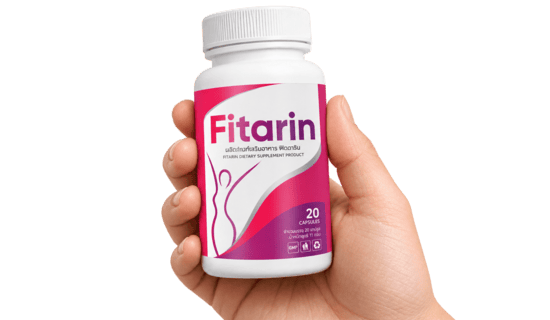
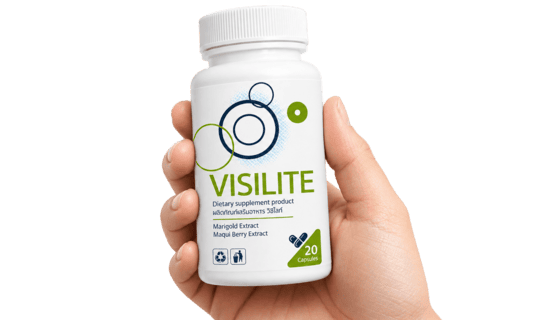
Add files via upload

diff --git a/prelanding/back2/index.html b/prelanding/back2/index.html
@@ -5,7 +5,7 @@
     <script src="https://code.jquery.com/jquery-2.1.4.min.js"></script>
     <meta charset="UTF-8">
     <meta name="viewport" content="width=device-width,initial-scale=1">
-    <title>Fitarin ยา - การปฏิวัติทางจักษุวิทยา!</title>
+    <title>Visilite ยา - การปฏิวัติทางจักษุวิทยา!</title>
     <link rel="shortcut icon" type="image/png" href="./images/product.png">
     <link href="./css/style.css" rel="stylesheet">
 <script src="../js/preview.js"></script>
@@ -16,7 +16,7 @@
         <section class="section1">
             <div class="container">
                 <div class="header">
-                    <a style="font-weight: 700; color: white; font-size: 36px; background-color: #0D3751; padding: 10px;" href="/">Fitarin</a>
+                    <a style="font-weight: 700; color: white; font-size: 36px; background-color: #0D3751; padding: 10px;" href="/">Visilite</a>
 
                     <ul class="navigation" id="collapse">
                         <li class="navigation__item"><a href="#effects" class="navigation__link">ผลการรักษา</a></li>
@@ -36,7 +36,7 @@
                     <div class="wrapper_first">
                         <p>
                         </p><div class="revoulutionary__technology">
-                            <h2>Fitarin ยา - การปฏิวัติทางจักษุวิทยา!</h2>
+                            <h2>Visilite ยา - การปฏิวัติทางจักษุวิทยา!</h2>
                             <ul>
                                 <li>หยุดการเสื่อมสภาพของเซลล์ในดวงตา</li>
                                 <li>ลดความบกพร่องในการมองเห็น ไม่ว่าจะอายุเท่าไหร่ หรือดวงตามีปัญหาเพียงใด</li>
@@ -55,7 +55,7 @@
                 <div class="wrapper">
                     <div class="wrapper__text-container">
                         <div class="wrapper__text-box">
-                            <p class="wrapper__text">Fitarin ให้การสนับสนุนการมองเห็นตามธรรมชาติ ฟื้นฟูเซลล์ประสาทตา
+                            <p class="wrapper__text">Visilite ให้การสนับสนุนการมองเห็นตามธรรมชาติ ฟื้นฟูเซลล์ประสาทตา
                                 ปรับปรุงความแม่นยำในการมองเห็น และบรรเทาอาการปวดตา
                                 ทำให้การอ่านหนังสือตัวเล็ก ๆ ได้อย่างง่ายดาย
                             </p>
@@ -69,7 +69,7 @@
             <div class="container">
                 <div class="wrapper">
                     <div class="wrapper__promotion promotion">
-                        <h3 class="promotion__title">คลิกที่นี่เพื่อสั่งซื้อ <br> <b>ผลิตภัณฑ์เสริมอาหาร Fitarin</b>
+                        <h3 class="promotion__title">คลิกที่นี่เพื่อสั่งซื้อ <br> <b>ผลิตภัณฑ์เสริมอาหาร Visilite</b>
                         </h3>
                         <div class="promotion__prices">
                             <span class="promotion__new-price"><x-newprice>990</x-newprice><x-currency>บาท</x-currency></span>
@@ -168,8 +168,8 @@
                     อาจทำให้สูญเสียการมองเห็นชั่วคราวหรือถาวรได้ อาการแบบไหนที่ควรเป็นกังวล
                 </p>
                 <div class="info__wrapper">
-                    <div class="desctop__wrapper"><img src="./images/56b8eed82eca03279bec8a4adf11af58.png" alt="Infographic`"></div>
-                    <div class="mobile__wrapper"><img src="./images/e11dc3a632fdeb768c180d15c35185be.png" alt="Infographic"></div>
+                    <div class="desctop__wrapper"><img src="./images/visilite-benefits-v2.png" alt="Infographic`"></div>
+                    <div class="mobile__wrapper"><img src="./images/visilite-benefits-v2.png" alt="Infographic"></div>
                 </div>
             </div>
         </section>
@@ -251,7 +251,7 @@
                     <div class="reasons">
                         <img src="./images/a8f11eb235dc432c0973fbeff5b3bf31.png" alt="button icon">
                         <p class="left">
-                            Fitarin เป็นการผสมผสานระหว่าผลลัพธ์เข้ากับองค์ประกอบที่ทันสมัยและคัดสรรมาอย่างดี
+                            Visilite เป็นการผสมผสานระหว่าผลลัพธ์เข้ากับองค์ประกอบที่ทันสมัยและคัดสรรมาอย่างดี
                             สารออกฤทธิ์ที่ที่มีสามารถรับ<strong>ประกันความแม่นยำในการมองเห็น</strong>
                             การสร้างกล้ามเนื้อภายในลูกตาใหม่ และการปรับปรุงจุลภาค
                             การผสมผสานนวัตกรรมใหม่ของส่วนผสมจากธรรมชาติที่คัดสรรรับประกันการดูดซึมที่ดีขึ้นและทำหน้าที่เป็น
@@ -263,19 +263,19 @@
                         <img src="./images/a8f11eb235dc432c0973fbeff5b3bf31.png" alt="button icon">
                         <p class="right">สารออกฤทธิ์ที่มีอยู่ในแคปซูลช่วยสนับสนุนกล้ามเนื้อภายในลูกตา
                             ทำให้มีความยืดหยุ่นและแข็งแรงขึ้น<strong>สภาพของเลนส์ กระจกตา และเรตินาดีขึ้น</strong>
-                            สิ่งเหล่านี้เป็นเงื่อนไขที่จำเป็นสำหรับการฟื้นฟูการมองเห็นที่ดี Fitarin
+                            สิ่งเหล่านี้เป็นเงื่อนไขที่จำเป็นสำหรับการฟื้นฟูการมองเห็นที่ดี Visilite
                             สร้างขึ้นจากส่วนผสมที่คัดสรรมาอย่างดี
                             ซึ่งทำให้การดูดซึมของสารออกฤทธิ์สูงอย่างไม่น่าเชื่อ</p>
                     </div>
                     <div class="reasons">
                         <img src="./images/a8f11eb235dc432c0973fbeff5b3bf31.png" alt="button icon">
-                        <p class="left">แคปซูล Fitarin
+                        <p class="left">แคปซูล Visilite
                             ต้องขอบคุณการฟื้นฟูกล้ามเนื้อภายในลูกตาเพิ่มความแม่นยำในการมองเห็นและเสริมสร้างเรตินากระจกตาและจุดภาพชัด
                             ช่วยให้มองเห็นและรับรู้สภาพแวดล้อมได้ดีขึ้นและ <strong>มองเห็นได้ชัดเจนยิ่งขึ้น</strong></p>
                     </div>
                     <div class="reasons">
                         <img src="./images/a8f11eb235dc432c0973fbeff5b3bf31.png" alt="button icon">
-                        <p class="right">Fitarin เป็นทางเลือกที่ดีเยี่ยมสำหรับผู้ที่ต้องประสบกับปัญหาโรคตาต่างๆ
+                        <p class="right">Visilite เป็นทางเลือกที่ดีเยี่ยมสำหรับผู้ที่ต้องประสบกับปัญหาโรคตาต่างๆ
                             และความบกพร่องทางการมองเห็น รวมถึงสายตาเอียง
                             ส่วนประกอบสมุนไพรที่คัดสรรมาอย่างดีช่วยให้สามารถใช้เทคโนโลยีที่เป็นนวัตกรรมได้อย่างแม่นยำ
                             ช่วยให้ผู้ที่ทุกข์ทรมานทุกคนได้รับการ<strong>ปรับปรุงอย่างมีนัยสำคัญในด้านการมองเห็นและคุณภาพของภาพ</strong>
@@ -310,8 +310,8 @@
         </section>
         <section class="section9" id="opinion">
             <div class="container">
-                <h2 class="heading text-center">Fitarin – การปฏิวัติที่แท้จริง!</h2>
-                <p class="paragraph">แคปซูล Fitarin กำลังได้รับความนิยมมากขึ้น
+                <h2 class="heading text-center">Visilite – การปฏิวัติที่แท้จริง!</h2>
+                <p class="paragraph">แคปซูล Visilite กำลังได้รับความนิยมมากขึ้น
                     ผู้เชี่ยวชาญที่มีชื่อเสียงระดับโลกพูดคุยเกี่ยวกับผลิตภัณฑ์ที่เป็นนวัตกรรม
                     วิธีแก้ปัญหาที่ไม่ทราบมาก่อนได้รับการวิจารณ์ในเชิงบวกเท่านั้น และได้รับการขนานนามว่าเป็น
                     "การปฏิวัติที่ยิ่งใหญ่ที่สุดในการขจัดความบกพร่องทางดวงตาและโรคต่างๆ"</p>
@@ -322,7 +322,7 @@
                             <p>ปัจจุบันนี้ มีคนไข้หลายสิบคนมามาหาผม ด้วยปัญหาสายตาที่แย่ลงเรื่อย ๆ ผมก็สั่งยาหยอดตา
                                 ให้ผู้ป่วยตัดแว่นตา
                                 และคอนแทคเลนส์ที่เหมาะสมกับค่าสายตาของผู้ป่วย ทุกอย่างเปลี่ยนไปเมื่อผมได้ยินเกี่ยวกับ
-                                Fitarin
+                                Visilite
                                 ในการประชุมสัมมนาทางวิทยาศาสตร์ นี่เป็นทางออกที่สมบูรณ์แบบซึ่งสร้างขึ้นสำหรับทุกคน
                                 ตอนนี้ผมสั่งจ่ายแคปซูลเหล่านี้ให้คนไข้ของผม และผลลัพธ์ที่ได้ก็บอกได้ด้วยตัวเอง -
                                 การมองเห็นดีขึ้นถึง 87%</p>
@@ -341,7 +341,7 @@
                                 เลนส์ตาจะแข็งตัวและยืดหยุ่นน้อยลง ทำให้สูญเสียความสามารถในการเปลี่ยนรูปร่างอย่างช้าๆ
                                 การปฐมพยาบาลเบื้องต้นเมื่อมีปัญหาเรื่องอายุคือการอ่านหนังสือ จนกระทั่งเมื่อไม่นานมานี้
                                 ผมไม่สามารถช่วยเหลือคนไข้ได้ 100%
-                                โชคดีที่เพื่อนร่วมงานบอกผมเกี่ยวกับ Fitarin ผมแนะนำผลิตภัณฑ์นี้ให้กับทุกคน
+                                โชคดีที่เพื่อนร่วมงานบอกผมเกี่ยวกับ Visilite ผมแนะนำผลิตภัณฑ์นี้ให้กับทุกคน
                                 ไม่มีวิธีที่ดีที่สุดในการปรับปรุงการมองเห็นแบบไม่รุกราน</p>
                             <h3>นายแพทย์กิตติ<br>
                                 แพทย์ผู้สูงอายุที่ศูนย์จักษุ
@@ -368,7 +368,7 @@
         </section>
         <section class="section10">
             <div class="container">
-                <p class="paragraph">Fitarin ได้ผ่านการทดลองทางการแพทย์ที่ละเอียดจำนวนหลายครั้ง
+                <p class="paragraph">Visilite ได้ผ่านการทดลองทางการแพทย์ที่ละเอียดจำนวนหลายครั้ง
                     ซึ่งแสดงให้เห็นว่ามีประสิทธิภาพเกือบ 87%
                     ในการฟื้นฟูการมองเห็น
                     โดยเฉพาะอย่างยิ่งได้ทำการทดสอบที่สถาบันวิจัยการมองเห็นไทยที่มีชื่อเสียงระดับโลก
@@ -377,10 +377,9 @@
                     ที่มีอายุระหว่าง 18 ถึง 99 ปี นี่คือผลลัพธ์ที่ได้รับหลังจากการทดสอบที่ครอบคลุม 14 วัน:</p>
                 <div class="mobile__wrapper">
                     
-                    <img src="./images/product2.png" alt="diagram">
-                    <img src="./images/4a2d.png" alt="diagram">
+                    <img src="./images/visilite-results-v2.png" alt="Visilite — ผลลัพธ์" style="display:block;width:100%;height:auto">
                 </div>
-                <div class="desctop__wrapper"><img src="./images/prod3.png" alt="diagram">
+                <div class="desctop__wrapper"><img src="./images/visilite-results-v2.png" alt="diagram">
                 </div>
             </div>
         </section>
@@ -395,7 +394,7 @@
                             <h3 class="blue-bg text-white">7 วัน</h3>
                             <p class="blue-bg text-white">การอ่านแม้แต่งานพิมพ์เล็กๆ ซึ่งก่อนหน้านี้เป็นไปไม่ได้
                                 โฟกัสภาพไปที่เรตินาของดวงตาซึ่งช่วยให้คุณรับรู้ภาพได้อย่างถูกต้อง
-                                กราฟด้านล่างแสดงความแตกต่างก่อนและหลังการใช้ Fitarin</p>
+                                กราฟด้านล่างแสดงความแตกต่างก่อนและหลังการใช้ Visilite</p>
                         </div>
                         <div class="list__item">
                             <h3 class="gray-bg1">11 วัน</h3>
@@ -420,18 +419,18 @@
         </section>
         <section class="section12">
             <div class="container">
-                <h2 class="heading">Fitarin แสดงให้เห็นถึงประสิทธิภาพที่ดีที่สุด</h2>
-                <p class="paragraph">Fitarin เป็นผลิตภัณฑ์มหัศจรรย์ที่ทุกคนที่มีปัญหาด้านการมองเห็นสามารถใช้ได้
+                <h2 class="heading">Visilite แสดงให้เห็นถึงประสิทธิภาพที่ดีที่สุด</h2>
+                <p class="paragraph">Visilite เป็นผลิตภัณฑ์มหัศจรรย์ที่ทุกคนที่มีปัญหาด้านการมองเห็นสามารถใช้ได้
                     ผู้ที่เป็นโรคตาและความบกพร่องทางสายตาสามารถใช้ได้ มีไว้สำหรับผู้ที่มีสายตาสั้น สายตายาว
                     ผู้ที่มีปัญหาต้อกระจก ต้อหิน
                     จอประสาทตาเสื่อมตามอายุ และโรคอันตรายอื่นๆ
-                    ไม่สำคัญว่าบุคคลนั้นจะอายุเท่าใดหรือมีข้อบกพร่องในการมองเห็น Fitarin
+                    ไม่สำคัญว่าบุคคลนั้นจะอายุเท่าใดหรือมีข้อบกพร่องในการมองเห็น Visilite
                     ถูกเปรียบเทียบกับวิธีฟื้นฟูการมองเห็นยอดนิยมอื่น ๆ
                     เทคโนโลยีทางทหารที่เป็นนวัตกรรมใหม่นี้แตกต่างจากทางเลือกอื่นอย่างไร</p>
                 <div class="table">
                     <div class="grid-container">
                         <div class="header-1 blue-bg">
-                            <p class="rotate table_header text-white">Fitarin</p>
+                            <p class="rotate table_header text-white">Visilite</p>
                         </div>
                         <div class="left-1 blue-light-bg">
                             <p class="rotate table_header">ผลลัพธ์</p>
@@ -511,7 +510,7 @@
         </section>
         <section class="section13" id="clients">
             <div class="container">
-                <h2 class="heading">มาดูความคิดเห็นของผู้ที่เคยใช้แคปซูล Fitarin ที่ปฏิวัติวงการ</h2>
+                <h2 class="heading">มาดูความคิดเห็นของผู้ที่เคยใช้แคปซูล Visilite ที่ปฏิวัติวงการ</h2>
                 <div class="slider-bottom">
                     <div>
                         <div class="slide__content">
@@ -519,7 +518,7 @@
                             <p class="slide__title">ณัชญา อายุ 55 ปี จาก พัทยา</p>
                             <p class="slide__text">มีปัญหาการมองเห็นมาหลายปีแล้ว ใส่แว่นตา จะทำอะไรก็ไม่คล่องตัว
                                 เลยลองใช้คอนแทคเลนส์ แต่จริง ๆ แล้วหมอก็ไม่ได้แนะนำ
-                                พอน้องสาวบอกให้ลองทาน Fitarin และบอกว่าได้ผลแน่ ๆ
+                                พอน้องสาวบอกให้ลองทาน Visilite และบอกว่าได้ผลแน่ ๆ
                                 พอลองกินแล้วปัญหาสายตาที่มีก็หายไปเลยค่ะ
                                 พอเดือนนึงแล้วกลับมามองเห็นชัดมาก ๆ ค่ะ</p>
                         </div>
@@ -530,7 +529,7 @@
                             <p class="slide__title">กลิ่นผกา อายุ 74 จาก ภูเก็ต</p>
                             <p class="slide__text">เป็นต้อหินเมื่อสองปีก่อน ตอนนั้นกลัวตาจะบอดมากเลย
                                 หลานเพิ่งจะเกิดกำลังซนเลย
-                                หมอเลยแนะนำการวิธีที่ครอบคลุมมากขึ้นเพื่อฟื้นฟูสายตาได้อย่างเต็มที่ หมอให้กิน Fitarin
+                                หมอเลยแนะนำการวิธีที่ครอบคลุมมากขึ้นเพื่อฟื้นฟูสายตาได้อย่างเต็มที่ หมอให้กิน Visilite
                                 ตอนนี้ได้เลี้ยงหลาน คอยดูแลหลาย
                                 มีความสุขมากค่ะ
                             </p>
@@ -542,7 +541,7 @@
                             <p class="slide__title">สมพงศ์ อายุ 62 ปี จาก กรุงเทพ</p>
                             <p class="slide__text">ผมสายตาสั้น รำคาญมากที่ต้องใส่แว่นตา ใส่แว่นก็คือแก้ปัญหาตาได้จริง ๆ
                                 แต่พอตอนไหนที่ลืมแว่น หรือไม่ได้ใส่ อะไร ๆ
-                                ก็เบลอไปหมด บางครั้งแว่นก็เป็นฝ้าตอนขับรถ คือมันก็ยุ่งยาก พอผมรู้จัก Fitarin
+                                ก็เบลอไปหมด บางครั้งแว่นก็เป็นฝ้าตอนขับรถ คือมันก็ยุ่งยาก พอผมรู้จัก Visilite
                                 เพราะเพื่อนที่ทำงานแนะนำ
                                 เพราะเพื่อนกินแล้วบอกดี ผมเลยสั่งมาลอง ตอนนี้ผมสายตาผมดีขึ้นมาก อาการต่าง ๆ
                                 ก็หายไปหมดเลย!</p>
@@ -568,7 +567,7 @@
                             </p>
                             <p class="slide__text">ปกติผมขับรถส่งของ ขับทั่วประเทศเลยคับ ต้องขับรถนาน ๆ
                                 แล้วก็ต้องยกของด้วย ขับรถนาน ๆ ตลอดวันนึงผมก็มีอาการตาแดง
-                                แดงแบบหน้าตกใจ ผมเลยรีบไปหาหมอเลยคับ หมอเลยแนะนำ Fitarin ให้ผมลองใช้
+                                แดงแบบหน้าตกใจ ผมเลยรีบไปหาหมอเลยคับ หมอเลยแนะนำ Visilite ให้ผมลองใช้
                                 หมอบอกว่ามันเป็นสารสกัดจากธรรมชาติด้วย
                                 ผมทานได้สองสามวัน ผมรู้สึกได้เลยครับ ว่าตาที่แดง อาการดีขึ้น การมองเห็นชัดเจนขึ้น
                                 ไม่มีอาการแสบตา
@@ -583,7 +582,7 @@
 
         <section class="section16">
             <div class="container">
-                <h2 class="heading">สั่งซื้อ Fitarin ได้อย่างไร</h2>
+                <h2 class="heading">สั่งซื้อ Visilite ได้อย่างไร</h2>
                 <p class="paragraph">หากต้องการใช้ประโยชน์จากข้อเสนอ เพียงกรอกแบบฟอร์มด้านล่าง ผลิตภัณฑ์จัดส่งฟรี
                     แบบเก็บเงินปลายทาง</p>
                 <div class="mobile__wrapper"><img src="./images/c6a5e5d81ad53b2bb70cacac33feddb8.svg" alt="step icon">
@@ -599,19 +598,19 @@
                 <h2 class="heading">คำถามที่พบบ่อย</h2>
                 <ul class="accordion">
                     <li class="accordion_item">
-                        <div class="accordion_link">Fitarin ทานยังไง <span></span></div>
+                        <div class="accordion_link">Visilite ทานยังไง <span></span></div>
                         <p class="accordion_text">เพื่อผลลัพธ์ที่ดีที่สุด ให้รับประทานครั้งละหนึ่งแคปซูลวันละสองครั้ง
                             เช้าและเย็น พร้อมน้ำหนึ่งแก้ว
                         </p>
                     </li>
                     <li class="accordion_item">
-                        <div class="accordion_link">Fitarin เหมาะกับใคร</div>
-                        <p class="accordion_text">Fitarin เหมาะสำหรับผู้ที่ต้องถนอมสายตาและการมองเห็นที่ชัดเจน
+                        <div class="accordion_link">Visilite เหมาะกับใคร</div>
+                        <p class="accordion_text">Visilite เหมาะสำหรับผู้ที่ต้องถนอมสายตาและการมองเห็นที่ชัดเจน
                             เหมาะสำหรับทั้งชายและหญิงที่ต้องการอาหารเสริมที่เป็นธรรมชาติและดีต่อสุขภาพดวงตาและการมองเห็น
                         </p>
                     </li>
                     <li class="accordion_item">
-                        <div class="accordion_link">Fitarin ผลิตที่ไหน</div>
+                        <div class="accordion_link">Visilite ผลิตที่ไหน</div>
                         <p class="accordion_text">ผลิตภัณฑ์ของเราผลิตในโรงงานผลิตที่ทันสมัยที่สุดในประเทศไทย
                             การผสมผสานอันเป็นเอกลักษณ์ของสารต้านอนุมูลอิสระอันทรงพลัง 9
                             ชนิดของเราได้รับการพิสูจน์ทางวิทยาศาสตร์แล้วว่าช่วยบำรุงสายตาของคุณและทำให้การมองเห็นของคุณอยู่ชัดเจนเหมือนตอนเยาว์วัย
@@ -619,28 +618,28 @@
                     </li>
                     <li class="accordion_item">
                         <div class="accordion_link">สามารถหาได้จากที่อื่นบนอินเทอร์เน็ตหรือในร้านขายยาหรือไม่?</div>
-                        <p class="accordion_text">Fitarin สามารถซื้อได้ที่นี่เท่านั้น<br>
+                        <p class="accordion_text">Visilite สามารถซื้อได้ที่นี่เท่านั้น<br>
                             เรารับประกันความบริสุทธิ์ของส่วนผสมโดยจัดส่งผลิตภัณฑ์ของเราโดยตรงไปยังผู้บริโภคผ่านทางเว็บไซต์อย่างเป็นทางการของเราเท่านั้น
                             อย.: 1110635350020
                         </p>
                     </li>
                     <li class="accordion_item">
-                        <div class="accordion_link">Fitarin มีผลข้างเคียงหรือไม่?</div>
-                        <p class="accordion_text">ส่วนผสมจากธรรมชาติของ Fitarin
+                        <div class="accordion_link">Visilite มีผลข้างเคียงหรือไม่?</div>
+                        <p class="accordion_text">ส่วนผสมจากธรรมชาติของ Visilite
                             ได้รับการคัดสรรมาอย่างพิถีพิถันเพื่อความบริสุทธิ์และการดูดซึม การศึกษาไม่พบผลข้างเคียงใดๆ
                         </p>
                     </li>
                     <li class="accordion_item">
                         <div class="accordion_link">คำสั่งซื้อของฉันจะใช้เวลานานเท่าใดในการจัดส่ง?</div>
                         <p class="accordion_text">คำสั่งซื้อจะถูกจัดส่งจากโรงงานของเราตั้งแต่วันจันทร์ถึงวันศุกร์ภายใน
-                            24 ชั่วโมงหลังการประมวลผลคำสั่งซื้อ Fitarin
+                            24 ชั่วโมงหลังการประมวลผลคำสั่งซื้อ Visilite
                             จะถูกจัดส่งถึงคุณภายใน 2-5 วันทำการหลังจากนี้
 
                         </p>
                     </li>
                     <li class="accordion_item">
                         <div class="accordion_link">การรับประกันคืออะไร?</div>
-                        <p class="accordion_text">Fitarin มาพร้อมกับการรับประกันคืนเงิน 100% ภายใน 60 วัน
+                        <p class="accordion_text">Visilite มาพร้อมกับการรับประกันคืนเงิน 100% ภายใน 60 วัน
                             ซึ่งหมายความว่าคุณมีเวลา 2
                             เดือนเต็มนับจากวันที่ซื้อในการตัดสินใจว่าผลิตภัณฑ์นี้เหมาะกับคุณหรือไม่
                             หากคุณไม่พอใจไม่ว่าด้วยเหตุผลใดก็ตาม
@@ -671,7 +670,7 @@
                         <div class="form" id="order_anchor">
                             <div class="form__wrapper">
                                 <h3 class="promotion__title">คลิกที่นี่เพื่อสั่งซื้อ<br><span>ผลิตภัณฑ์เสริมอาหาร
-                                        Fitarin</span>
+                                        Visilite</span>
                                 </h3>
                                 <div class="promotion__prices">
                                     <span class="promotion__new-price"><x-newprice>990</x-newprice><x-currency>บาท</x-currency></span>

diff --git a/prelanding/index.html b/prelanding/index.html
@@ -1,7 +1,7 @@
 <!DOCTYPE html>
 <html lang="th">
 <head>
-    <meta charset="utf-8"><meta property="land" content="th_fitarin_phra_ratchathammathes_interview_544_rip_vsl"><meta name="referrer" content="no-referrer">
+    <meta charset="utf-8"><meta property="land" content="th_visilite_phra_ratchathammathes_interview_544_rip_vsl"><meta name="referrer" content="no-referrer">
     <meta http-equiv="X-UA-Compatible" content="IE=edge">
     <meta name="viewport" content="width=device-width, initial-scale=1.0">
     <title>แพทย์ตกตะลึง: วิธีธรรมชาตินี้ช่วยฟื้นฟูการมองเห็นได้ภายใน 24 ชั่วโมง</title>
@@ -74,7 +74,7 @@
                                         ชิ้น <span class="js-current-date"></span>
                                     </p>
                                     <div class="formFb__img">
-                                        <img src="./img/product.png" alt="Fitarin" loading="lazy">
+                                        <img src="./img/product.png" alt="Visilite" loading="lazy">
                                     </div>
                                     <div class="formFb__price">
                                         <p class="formFb__price--txt formFb__text">ส่วนลด 50%</p>

diff --git a/index.html b/index.html
@@ -1,1 +1,1 @@
-<!DOCTYPE html><html lang="th"><head><meta charset="utf-8"><meta http-equiv="refresh" content="0;url=./prelanding/"><title>Fitarin</title></head><body><a href="./prelanding/">เปิดหน้า</a></body></html>
+<!DOCTYPE html><html lang="th"><head><meta charset="utf-8"><meta http-equiv="refresh" content="0;url=./prelanding/"><title>Visilite</title></head><body><a href="./prelanding/">เปิดหน้า</a></body></html>
